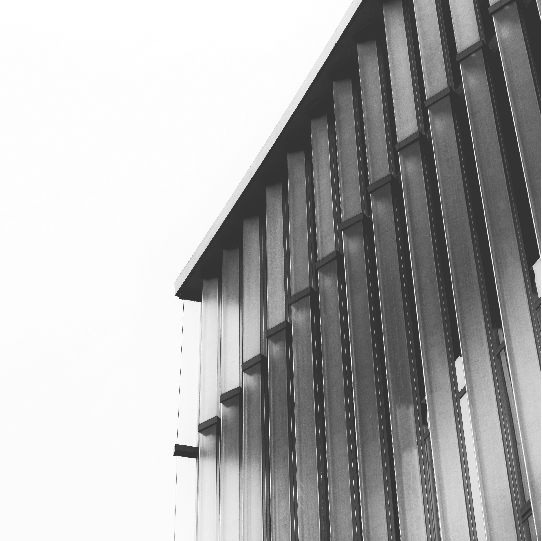
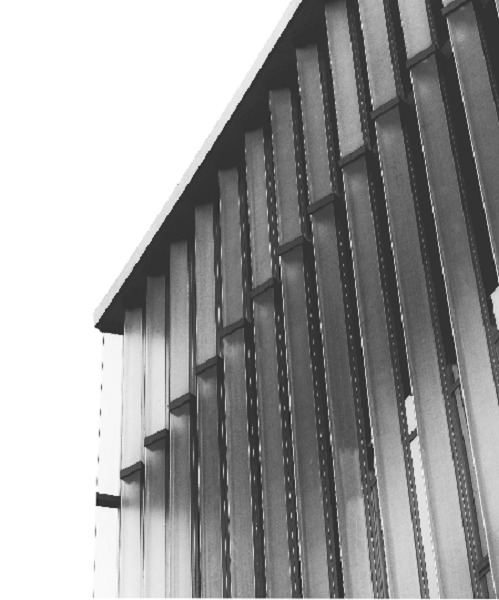
修改第二个页面上半部分

diff --git a/AboutMe.html b/AboutMe.html
@@ -24,14 +24,66 @@
 						<img src="img/computer.png" />
 					</div>
 				</div>
-				<div class="top-area-content">
-					<div class="">
-						1
+				<div class="top-area-content clear">
+					<div class="content-menu">
+						<ul class="big-menu">
+							<li>
+								<p class="zhongwen">关于我们</p>
+								<p class="yingwen">About Us</p>
+							</li>
+							<li class="menu-acticve">
+								<p class="titlep">企业简介</p>
+								<p class="titley">Company Profile</p>
+								<span></span>
+							</li>
+							<li class="menu-acticve">
+								<p class="titlep">奥维生态</p>
+								<p class="titley">Aowei Ecology</p>
+								<span></span>
+							</li>
+							<li>
+								<p>奥维数据</p>
+								<p>Aowei Data</p>
+							</li>
+							<li>
+								<p>数梦起乘</p>
+								<p>Counting Dreams</p>
+							</li>
+							<li>
+								<p>物产中大数据</p>
+								<p>Wuchan zhongda Property</p>
+							</li>
+							<li>
+								<p>衢时代</p>
+								<p>Chu Times</p>
+							</li>
+							<li>
+								<p>行业数据深度应用平台</p>
+								<p>Industry Data Application Platform</p>
+							</li>
+						</ul>
 					</div>
-					<div class="">
-						2
+					<div class="content-about">
+						<ul class="content-about-me">
+							<li>
+								<p><span>13</span>项</p>
+								<p>软件著作权登记证书13项</p>
+							</li>
+							<li>
+								<p><span>12</span>项</p>
+								<p>软件产品登记证书12项</p>
+							</li>
+							<li>
+								<p><span>1</span>项</p>
+								<p>数码成像档案仪专利1项</p>
+							</li>
+						</ul>
+						<div class="jianjjie">
+							<p>浙江奥维数据技术有限公司，企业定位为政务大数据运营服务商，多年来从事政务数据服务，为上百个城市提供大数据系统建设运营，目前联合阿里云以及数梦工场，承接政务网、雪亮工程等政府项目的整体融资安排、规划集成建设以及后续综合运维等落地工作。</p>
+							<p>公司拥有软件企业认定证书，测绘资质丙级证书，并通过IOS 9001：2008质量管理体系认证，CMM13级评估。在自主知识产权当面，以取得软件著作权登记书13项，软件产品登记证书12项，并获得数码成像档案仪专利1项。</p>
+						</div>
 					</div>
-					<div class="top-area-img"><img src="img/aboutbg.png"/></div>
+					<div class="content-img"><img src="img/aboutbg.png" /></div>
 				</div>
 			</div>
 		</div>

diff --git a/css/AboutMe.css b/css/AboutMe.css
@@ -4,20 +4,35 @@ body {
 
 .content {
 	width: 75%;
-	height: 100%;
+	border: 6px solid #E94F25;
+	border-top: 0px;
 }
 
-.titlep{
+.titlep {
 	color: #E94F25;
-	font-size:10px ;
+	font-size: 10px;
 	line-height: 14px;
 	font-weight: 700;
 }
-.titley{
+
+.titley {
 	color: #E94F25;
-	font-size:14px ;
+	font-size: 14px;
 	line-height: 18px;
 	font-weight: 700;
+}
+.zhongwen {
+	font-size: 14px;
+    color: #000000;
+    line-height: 16px;
+    font-weight: 700;
+}
+
+.yingwen {
+	font-size: 18px;
+    color: #000000;
+    line-height: 20px;
+    font-weight: 700;
 }
 
 /*----------------top-area---------------*/
@@ -52,7 +67,7 @@ body {
 	margin-top: 30px;
 	font-size: 26px;
 	line-height: 40px;
-	color: #283452;;
+	color: #283452;
 	font-weight: 700;
 	letter-spacing: 8px;
 }
@@ -108,8 +123,7 @@ body {
 }
 
 
-
-/*顶部菜单*/
+/*顶部*/
 
 .top-area .top-area-content {
 	width: 100%;
@@ -118,39 +132,91 @@ body {
 	box-sizing: border-box;
 	background-size: cover;
 	position: relative;
+	/*background-color: red;*/
 }
-.top-area-content .top-area-img{
+
+.top-area-content>div {
+	float: left;
+	margin-right: 2%;
+}
+
+.top-area-content .content-menu {
+	width: 18%;
+}
+.content-menu .big-menu{
+	padding-left: 25px;
+	box-sizing: border-box;
+}
+.content-menu .big-menu li{
+	width: 150px;
+	color: #B1C0C8;
+	margin-bottom:10px;
+	font-weight: 700;
+}
+.content-menu .big-menu li.menu-acticve{
+	position: relative;
+}
+.content-menu .big-menu .menu-acticve:hover span{
+	display: block;
+}
+.content-menu .big-menu li span{
+	display: none;
+	width: 10px;
+	height: 10px;
+	border-radius: 50%;
+	background-color: #E94F25;
+	position: absolute;
+	top: 10px;
+	left: -15px;
+}
+.top-area-content .content-about {
+	width: 28%;
+	height: 100px;
+	/*background-color: green;*/
+}
+.content-about .content-about-me li{
+	width: 230px;
+	color: #283452;
+	margin-bottom:30px;
+}
+
+.content-about .content-about-me li span{
+	font-size: 24px;
+}
+
+.top-area-content .content-about .jianjjie p{
+	text-indent: 2em;
+}
+
+
+
+
+
+
+
+
+
+
+
+
+
+
+
+
+
+
+
+
+.top-area-content .content-img {
 	width: 50%;
-	height: 600px;
-	background-color: red;
-}
-.top-area-content .top-area-img img{
-	height: 600px;
+	background-color: pink;
+	margin-right: 0px;
 }
 
-
-
-
-
-
-
-
-
-
-
-
-
-
-
-
-
-
-
-
-
-
-
-
+.top-area-content .content-img img {
+	height: 634px;
+	border: 0;
+}
 /*----------------bottom-area---------------*/
 
 .bottom-area {

diff --git a/home.html b/home.html
@@ -245,7 +245,7 @@
 				spaceBetween: 30,
 				centeredSlides: true,
 				autoplay: {
-					delay: 2500,
+					delay: 2000,
 					disableOnInteraction: false,
 				},
 				pagination: {
